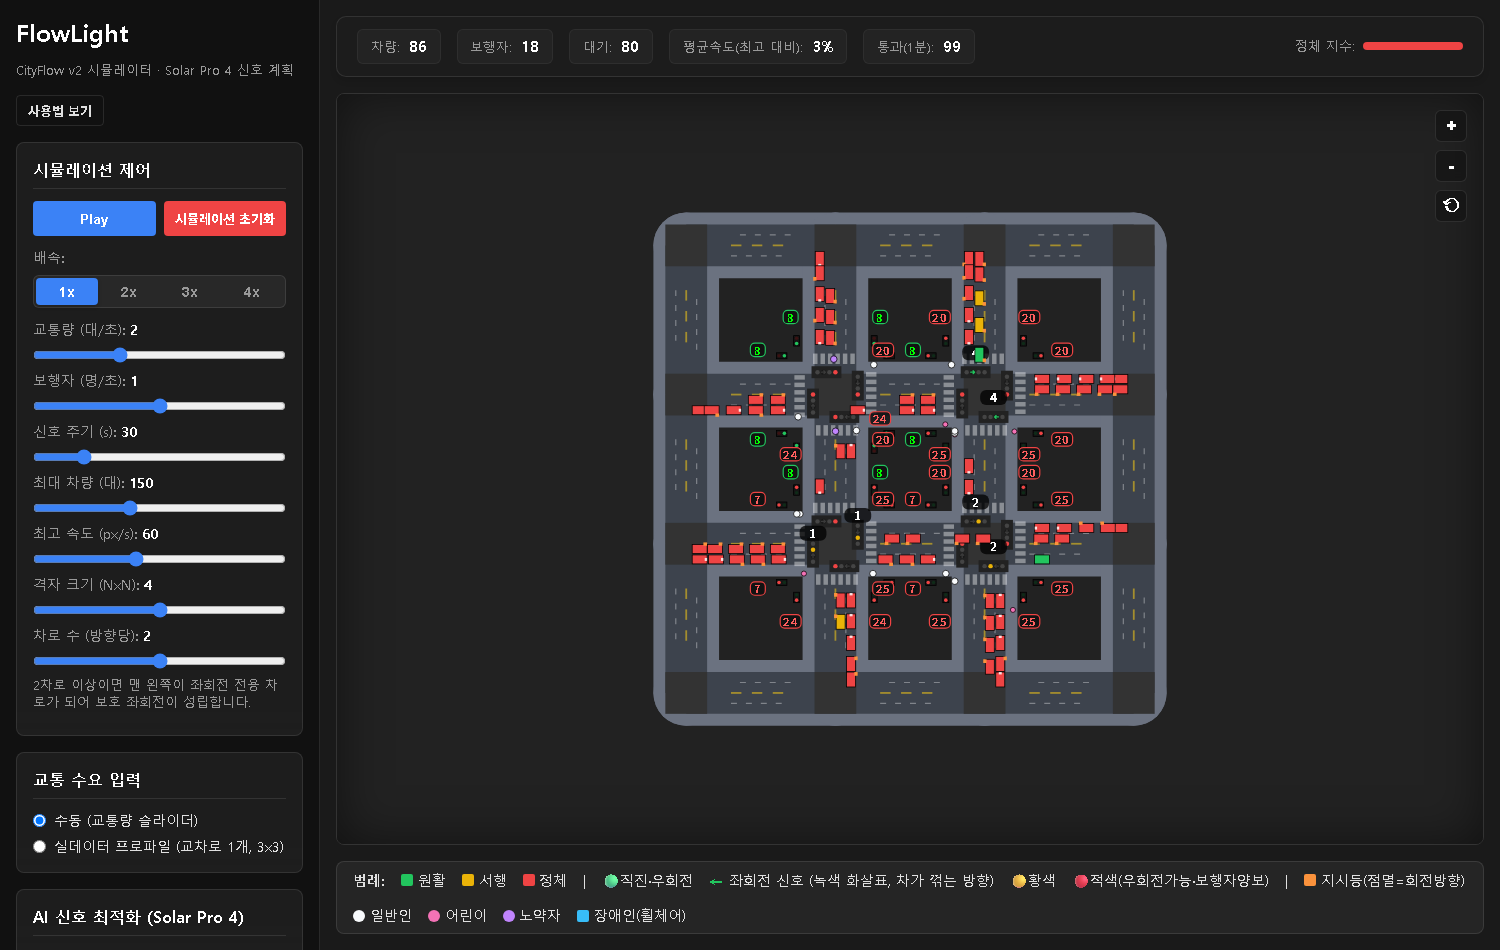
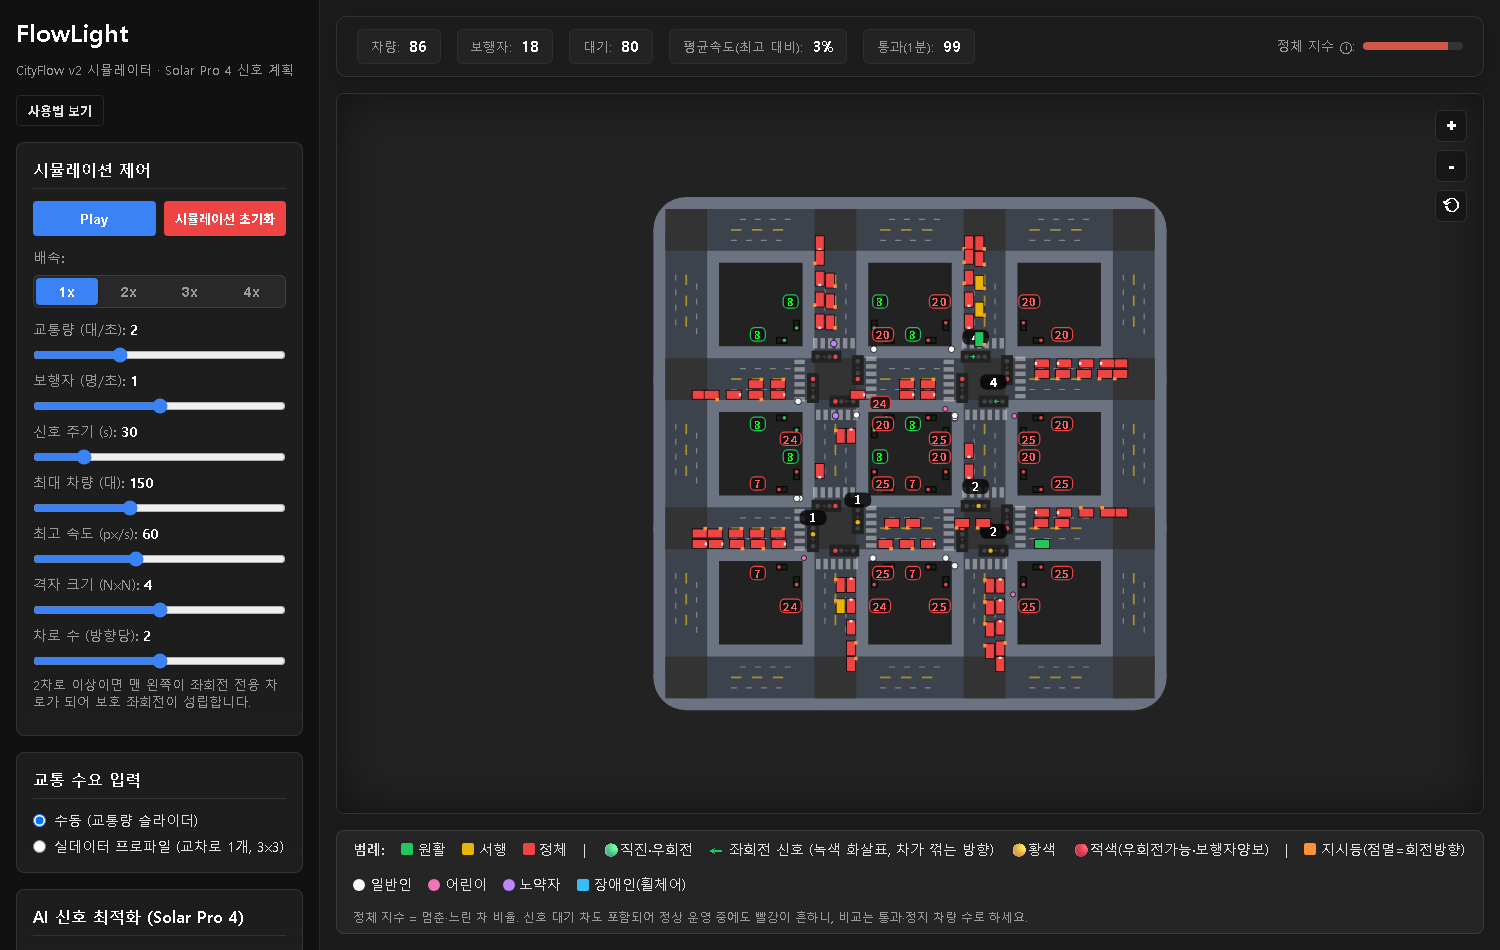
휴대폰 화면 배치, 정체 지수 설명 추가, 캡처 갱신
- 좁은 화면(820px 이하): 도로 화면을 위에 크게, AI 패널과 조작 패널을 아래에 둔다.
  격자가 화면보다 크면 폭에 맞춰 줄인다 (fitCamera). 데스크톱 배치는 그대로.
- 정체 지수: 신호 대기 차도 포함해 정상 운영 중에도 빨강이 흔하다는 설명을
  막대 툴팁과 범례 한 줄(항상 보임)에 넣었다. 색 기준과 계산식은 바꾸지 않았다.
- README ko/en: 알려진 한계에 정체 지수 설명 추가.
- 캡처 갱신 (새 막대 이름·범례 줄): 메인, 프로파일, 수요 패널, 사용법, 보행 전용 현시,
  전후 비교 GIF (저장한 계획으로 재녹화, 수치 동일), Live Demo GIF (실제 호출 1회).

diff --git a/app/index.html b/app/index.html
@@ -223,6 +223,20 @@ input[type="range"]:disabled { opacity: 0.35; }
     color: var(--text-muted);
 }
 
+/* 휴대폰·좁은 화면: 도로 화면을 위에, 조작 패널을 아래에 쌓고 페이지 전체를 스크롤한다. */
+@media (max-width: 820px) {
+    body { height: auto; overflow: auto; display: block; }
+    .container { flex-direction: column; height: auto; }
+    .main-content { order: 1; height: auto; overflow: visible; padding: 0.5rem; }
+    .canvas-container { flex: none; height: 62vh; min-height: 380px; }
+    #ai-floating-panel.docked { position: static; width: auto; max-height: none; margin-top: 0.5rem; font-size: 0.75rem; }
+    .sidebar { order: 2; width: 100%; overflow: visible; border-right: none; border-top: 1px solid var(--border-color); }
+    .stats-bar { gap: 0.4rem; padding: 0.5rem; margin-bottom: 0.5rem; }
+    .stat { font-size: 0.72rem; padding: 0.25rem 0.5rem; }
+    .stat.congestion { margin-left: 0; }
+    .legend { font-size: 0.72rem; gap: 0.5rem; margin-top: 0.5rem; }
+}
+
     </style>
 </head>
 <body>
@@ -373,8 +387,8 @@ input[type="range"]:disabled { opacity: 0.35; }
                 <div class="stat">대기: <b id="stat-stopped">0</b></div>
                 <div class="stat">평균속도(최고 대비): <b id="stat-speed">0%</b></div>
                 <div class="stat">통과(1분): <b id="stat-throughput">0</b></div>
-                <div class="stat congestion">
-                    정체 지수:
+                <div class="stat congestion" title="멈춘 차와 느린 차의 비율로 계산합니다. 신호 앞에서 기다리는 차도 포함되므로, 교차로가 정상적으로 돌아갈 때도 높게(빨강) 나올 수 있습니다. 신호끼리 비교할 때는 통과 차량과 정지 차량을 함께 보세요.">
+                    정체 지수 ⓘ:
                     <div class="c-bar-bg"><div class="c-bar-fill" id="stat-congestion"></div></div>
                 </div>
             </div>
@@ -460,6 +474,7 @@ input[type="range"]:disabled { opacity: 0.35; }
                 <span class="l-item"><span class="color-box" style="background:#f472b6;border-radius:50%"></span>어린이</span>
                 <span class="l-item"><span class="color-box" style="background:#c084fc;border-radius:50%"></span>노약자</span>
                 <span class="l-item"><span class="color-box" style="background:#38bdf8"></span>장애인(휠체어)</span>
+                <span class="l-item" style="flex-basis:100%;color:var(--text-muted);font-size:0.9em">정체 지수 = 멈춘·느린 차 비율. 신호 대기 차도 포함되어 정상 운영 중에도 빨강이 흔하니, 비교는 통과·정지 차량 수로 하세요.</span>
             </div>
         </main>
     </div>
@@ -2438,15 +2453,36 @@ SimController.prototype._initDOM = function() {
     this.canvas = document.getElementById('sim-canvas');
     this.renderer = new Renderer(this.canvas);
 
+    // 격자가 화면보다 크면(휴대폰 등) 화면에 맞게 줄이고, 넉넉하면 1배로 가운데 둔다.
+    var fitCamera = function(rect) {
+        var nw = (self.gridSize+1)*100, nh = (self.gridSize+1)*100;
+        var s = Math.min(1, (rect.width - 16) / nw, (rect.height - 16) / nh);
+        if (!(s > 0)) s = 1;
+        self.cam.scale = s;
+        self.cam.x = (rect.width - nw * s) / 2;
+        self.cam.y = (rect.height - nh * s) / 2;
+    };
+    self.fitCamera = fitCamera;
+    // 좁은 화면에서는 AI 패널이 도로를 가리지 않도록 도로 화면 아래로 옮기고, 넓어지면 원래 자리로 돌린다.
+    var aiPanel = document.getElementById('ai-floating-panel');
+    var canvasBox = self.canvas.parentElement;
+    var narrow = window.matchMedia ? window.matchMedia('(max-width: 820px)') : null;
+    var dockPanel = function() {
+        var isNarrow = !!(narrow && narrow.matches);
+        if (isNarrow && aiPanel.parentElement === canvasBox) {
+            canvasBox.parentElement.insertBefore(aiPanel, canvasBox.nextSibling);
+            aiPanel.classList.add('docked');
+        } else if (!isNarrow && aiPanel.parentElement !== canvasBox) {
+            canvasBox.appendChild(aiPanel);
+            aiPanel.classList.remove('docked');
+        }
+    };
     var resize = function() {
+        dockPanel();
         var rect = self.canvas.parentElement.getBoundingClientRect();
         self.canvas.width = rect.width;
         self.canvas.height = rect.height;
-        if (self.network && self.cam.x === 0 && self.cam.scale === 1.0) {
-            var nw = (self.gridSize+1)*100, nh = (self.gridSize+1)*100;
-            self.cam.x = (rect.width-nw)/2;
-            self.cam.y = (rect.height-nh)/2;
-        }
+        if (self.network && self.cam.x === 0 && self.cam.scale === 1.0) fitCamera(rect);
         if (!self.running) self.renderer.render(self.network, self.jc, self.cam);
     };
     window.addEventListener('resize', resize);
@@ -3465,11 +3501,7 @@ SimController.prototype._initDOM = function() {
         if (!self.running) self.renderer.render(self.network, self.jc, self.cam);
     };
     document.getElementById('btn-zoom-reset').onclick = function() {
-        var rect = self.canvas.getBoundingClientRect();
-        var nw = (self.gridSize+1)*100, nh = (self.gridSize+1)*100;
-        self.cam.scale = 1.0;
-        self.cam.x = (rect.width-nw)/2;
-        self.cam.y = (rect.height-nh)/2;
+        fitCamera(self.canvas.getBoundingClientRect());
         if (!self.running) self.renderer.render(self.network, self.jc, self.cam);
     };
 

diff --git a/README.en.md b/README.en.md
@@ -570,6 +570,7 @@ Problem statement, agent design, architecture, experiment results and retrospect
 - At most three lanes, and always exactly one left-turn lane. Cars choose the lane for their turn on entry and never change lanes mid-block, so through traffic does not move over even when the left-turn lane is empty. On single-lane roads a protected-only left (no left during the through green) gridlocks the grid, so those roads use protected-permissive left turns.
 - More lanes raise throughput but also raise queues and the congestion index, because every lane admits cars while intersection capacity is set by the signal.
 - Against a fixed signal without pedestrian time, the AI plan comes out about the same when demand is balanced (see "When demand on the two axes is similar"). In the ten-seed comparison the clear gain came from skipping the pedestrian phase when nobody was waiting, while re-splitting time between the two axes could not be told apart from noise.
+- The on-screen congestion index is the share of stopped and slow cars, including cars waiting at a red light. It sits around 0.9 (red) even when the intersection runs normally, so it is not used to compare signals; throughput and stopped vehicles are. The legend and the bar tooltip say so.
 - Automatic re-analysis only reacts to hour changes. A big change in demand within the same hour keeps the old plan, and for 20 s after a change the road still holds cars from the previous hour, so the plan can come out similar.
 - When actuation makes cycle lengths differ between intersections, the green-wave offsets drift. Per-intersection plans are on the roadmap.
 - In manual mode, applying an AI plan still halves the spawn rate for 120 s as a relief measure. This is disabled in profile mode.
